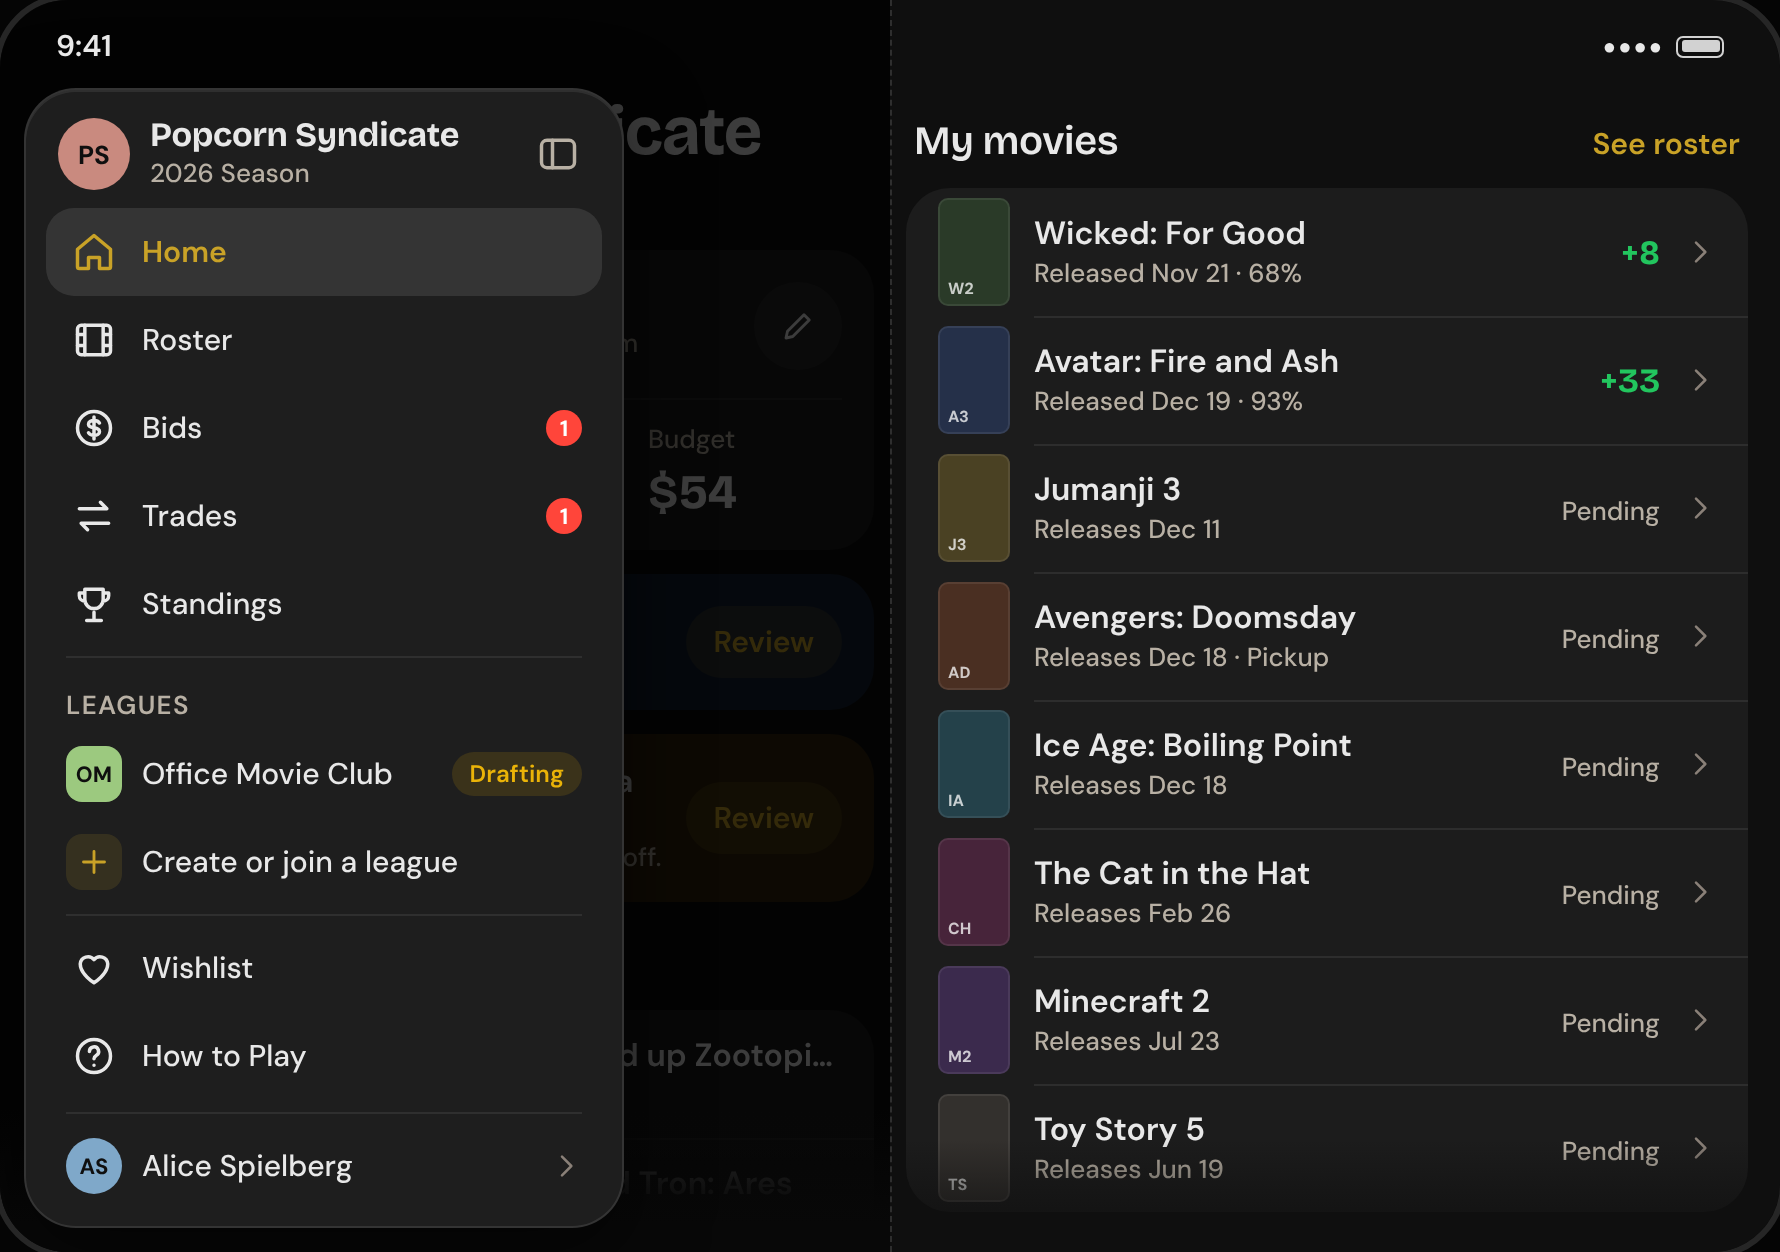
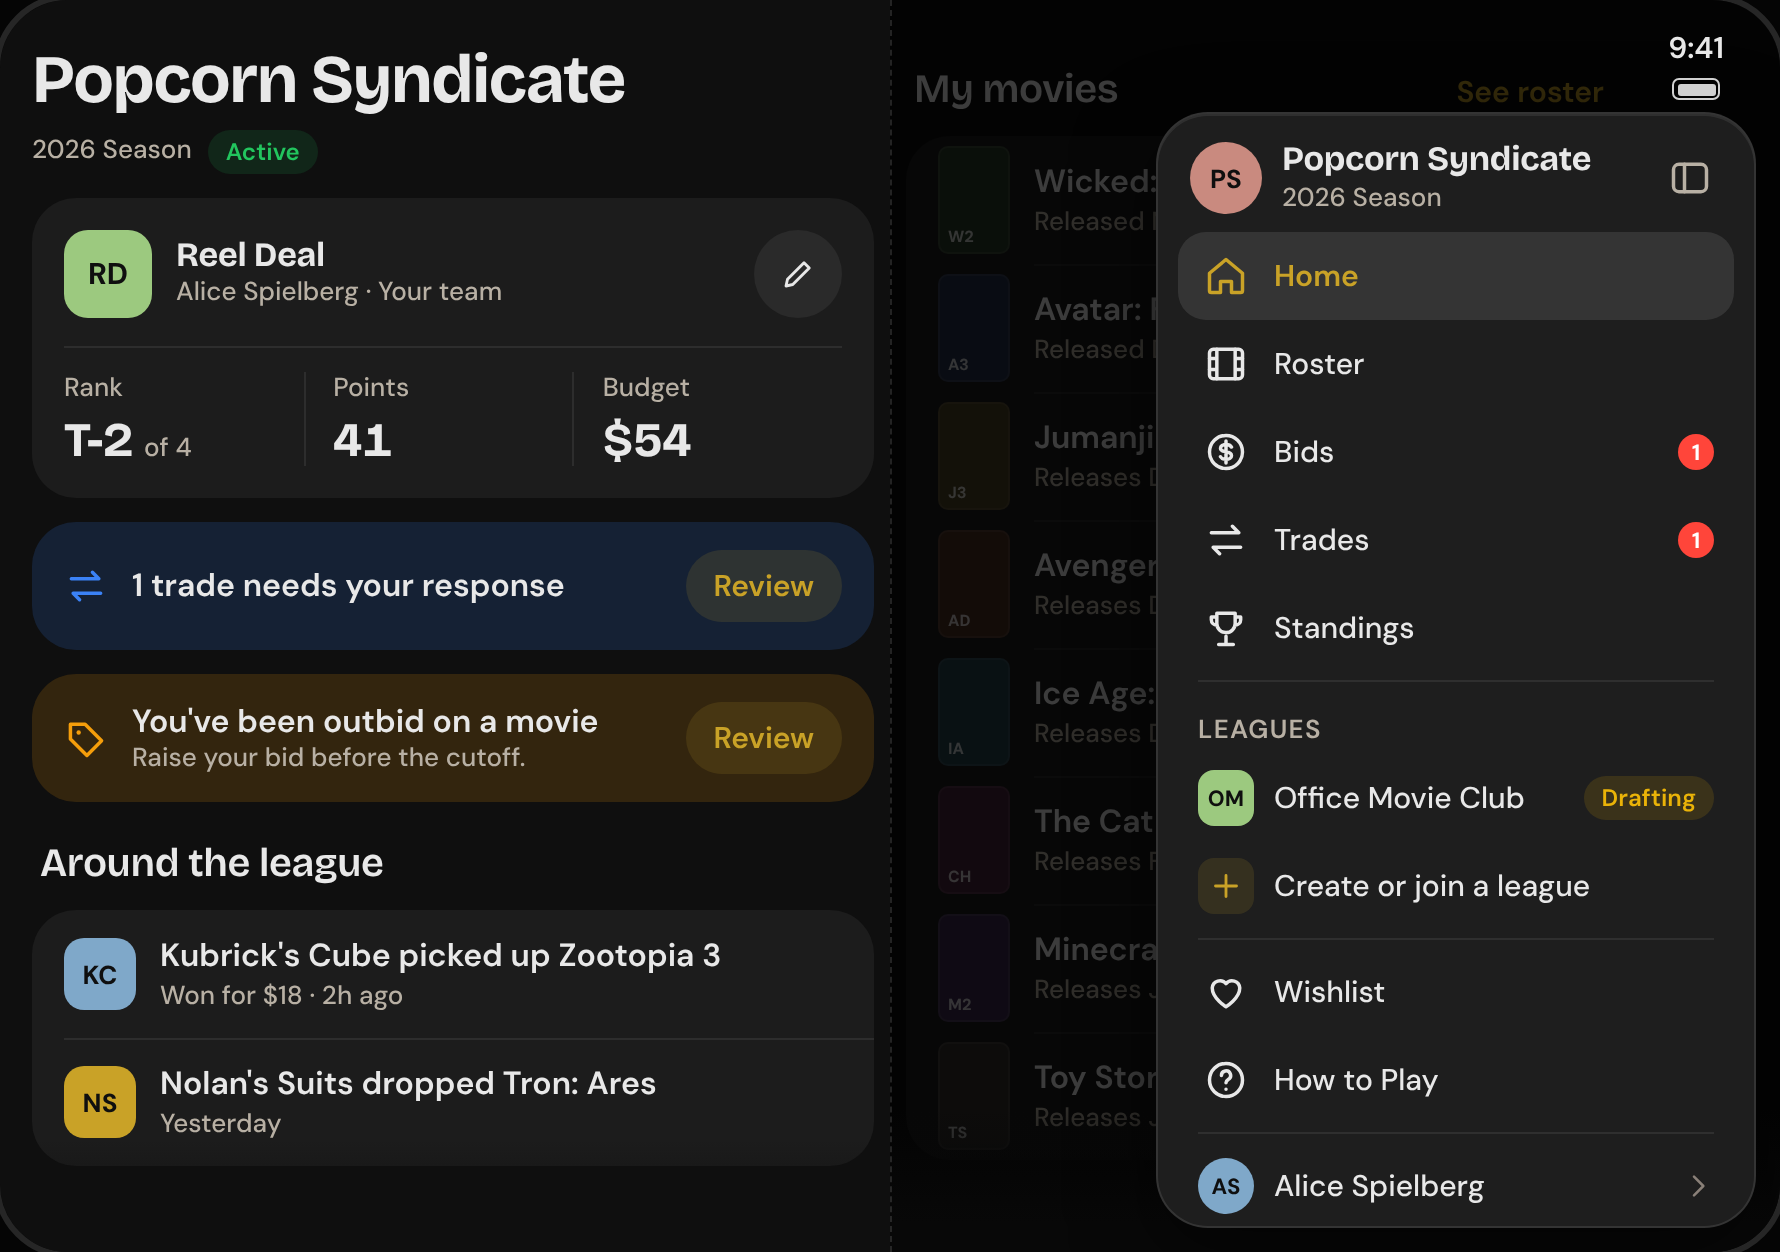
Move the Duo mockups' status area and navigation rail to the right edge
Apple describes the app as using the space to the left of the status bar
and camera, and the device shows the same when open. Redraw the open and
closed mockups with the rail on the right, add search to the closed rail,
and update the plan's wording to match.

Claude-Session: https://claude.ai/code/session_012k7YdinqiV5eQMmpNSoUhr

diff --git a/docs/ios-duo/mockups/kit.css b/docs/ios-duo/mockups/kit.css
@@ -19,6 +19,11 @@ body{background:#050505;font-family:"DM Sans",system-ui,sans-serif;color:var(--t
 .statusbar .batt{width:24px;height:11px;border:1.5px solid var(--text);border-radius:3.5px;position:relative;opacity:.9}
 .statusbar .batt::after{content:"";position:absolute;inset:1.5px;background:var(--text);border-radius:1.5px}
 .statusbar .sig{font-size:11px;letter-spacing:1px}
+/* On the Duo the status area sits at the top of the right edge, with the app's navigation below it
+   (Apple: an app uses "the screen space to the left of the status bar and camera"). The tabletop pose keeps a top status bar. */
+.device.open .statusbar,.device.closed .statusbar{left:auto;right:0;width:84px;height:52px;flex-direction:column;justify-content:center;gap:5px;padding:12px 0 0}
+.device.closed .statusbar{width:76px}
+.device.open .statusbar .sig,.device.closed .statusbar .sig{display:none}
 /* Type roles */
 .t-large{font:700 34px/1.08 "Bricolage";letter-spacing:-.02em}
 .t-page{font:700 28px/1.1 "Bricolage";letter-spacing:-.02em}
@@ -41,8 +46,8 @@ i[data-i]{display:inline-flex;width:22px;height:22px;flex:none} i[data-i] svg{wi
 .gbtn{width:44px;height:44px;border-radius:22px;display:flex;align-items:center;justify-content:center;color:var(--gold);position:relative;flex:none}
 .gpill{height:44px;border-radius:22px;display:inline-flex;align-items:center;gap:6px;padding:0 10px 0 5px;color:var(--text)}
 .dot{position:absolute;top:-3px;right:-3px;min-width:18px;height:18px;border-radius:9px;background:#ff453a;color:#fff;font:700 11px/18px "DM Sans";text-align:center;padding:0 4px}
-/* Side rail: the system places bars on the side in the book pose and on the outer display (approximation). */
-.rail{position:absolute;top:44px;bottom:0;left:0;width:84px;display:flex;flex-direction:column;align-items:center;gap:10px;padding:4px 0 16px;z-index:30}
+/* Side rail on the right edge, under the status area: the system places bars on the side in the book pose and on the outer display (approximation). */
+.rail{position:absolute;top:56px;bottom:0;right:0;width:84px;display:flex;flex-direction:column;align-items:center;gap:10px;padding:4px 0 16px;z-index:30}
 .rail .grow{flex:1}
 .vtabs{border-radius:30px;padding:5px;display:flex;flex-direction:column;gap:2px;width:68px}
 .vtab{height:52px;border-radius:26px;display:flex;flex-direction:column;align-items:center;justify-content:center;gap:1px;font:600 10px "DM Sans";color:var(--text);position:relative}
@@ -53,15 +58,15 @@ i[data-i]{display:inline-flex;width:22px;height:22px;flex:none} i[data-i] svg{wi
 .tab{width:84px;height:54px;border-radius:27px;display:flex;flex-direction:column;align-items:center;justify-content:center;gap:2px;font:600 11px "DM Sans";position:relative}
 .tab.on{background:rgba(255,255,255,.10);color:var(--gold)} .tab .dot{top:4px;right:20px}
 /* Sidebar (P4) */
-.sidebar{position:absolute;top:44px;bottom:12px;left:12px;width:232px;border-radius:26px;padding:12px 10px;display:flex;flex-direction:column;gap:2px;z-index:30}
+.sidebar{position:absolute;top:56px;bottom:12px;right:12px;width:232px;border-radius:26px;padding:12px 10px;display:flex;flex-direction:column;gap:2px;z-index:30}
 .sb-h{padding:10px 10px 4px} .sb-item{height:44px;border-radius:14px;display:flex;align-items:center;gap:10px;padding:0 10px;font:500 15px "DM Sans";position:relative}
 .sb-item.on{background:rgba(255,255,255,.10);color:var(--gold);font-weight:600} .sb-item .end{margin-left:auto}
 .sb-sep{height:1px;background:var(--sep);margin:6px 10px}
-/* Panes: absolutely placed columns. In .open with a rail: left pane 84..437, right pane 453..874 (the gutter sits on the fold). */
-.pane{position:absolute;top:44px;bottom:0;overflow:hidden;display:flex;flex-direction:column;gap:12px;padding-top:4px}
-.pane.l{left:84px;width:353px} .pane.r{left:453px;width:421px}
+/* Panes: absolutely placed columns. In .open with the rail on the right: left pane 16..437, right pane 453..806 (the gutter sits on the fold). */
+.pane{position:absolute;top:18px;bottom:0;overflow:hidden;display:flex;flex-direction:column;gap:12px;padding-top:4px}
+.pane.l{left:16px;width:421px} .pane.r{left:453px;width:353px}
 .pane.fade::after,.fadeb::after{content:"";position:absolute;left:0;right:0;bottom:0;height:56px;background:linear-gradient(transparent,var(--bg));pointer-events:none}
-.pane.sunken{background:#141414;border-radius:26px 26px 0 0;padding:14px 14px 0;top:48px} /* a detail pane that reads as a separate surface */
+.pane.sunken{background:#141414;border-radius:26px 26px 0 0;padding:14px 14px 0;top:18px} /* a detail pane that reads as a separate surface */
 .hd{display:flex;flex-direction:column;gap:2px} .hd .row{display:flex;align-items:center;gap:8px;margin-top:4px}
 .sec{display:flex;align-items:baseline;justify-content:space-between;padding:6px 4px 0}
 .sec a{font:600 15px "DM Sans";color:var(--gold)}

diff --git a/docs/ios-duo/mockups/home-closed.html b/docs/ios-duo/mockups/home-closed.html
@@ -1,13 +1,13 @@
 <!doctype html><html><head><meta charset="utf-8"><link rel="stylesheet" href="kit.css">
 <style>
 /* Outer display, phone shut: the system puts navigation on the side, so the rail sits on the right (thumb) edge. */
-.device.closed .rail{left:auto;right:0;width:76px}
+.device.closed .rail{width:76px}
 .device.closed .pane.c{left:16px;width:366px}
 </style></head><body>
 <div class="device closed">
   <div class="statusbar"><span>9:41</span><span class="sys"><span class="sig">●●●●</span><span class="batt"></span></span></div>
 
-  <!-- Right-edge rail: league switcher, five tabs, then notifications / league menu. Search lives in the menu here. -->
+  <!-- Right-edge rail: league switcher, five tabs, then search / notifications / league menu. -->
   <div class="rail">
     <div class="gbtn glass" style="width:52px"><span class="av round a3" style="width:34px;height:34px">PS</span></div>
     <div class="vtabs glass">
@@ -18,6 +18,7 @@
       <div class="vtab"><i data-i="standings"></i>Standings</div>
     </div>
     <div class="grow"></div>
+    <div class="gbtn glass"><i data-i="search"></i></div>
     <div class="gbtn glass"><i data-i="bell"></i><span class="dot">3</span></div>
     <div class="gbtn glass"><i data-i="more"></i></div>
   </div>

diff --git a/docs/ios-duo/mockups/home-open-sidebar.html b/docs/ios-duo/mockups/home-open-sidebar.html
@@ -1,7 +1,7 @@
 <!doctype html><html><head><meta charset="utf-8"><link rel="stylesheet" href="kit.css">
 <style>
 /* Sidebar expanded from the rail's league avatar. It replaces the menu sheet; the rail is hidden while it is open. */
-.scrim{position:absolute;top:0;bottom:0;left:0;width:445px;background:linear-gradient(transparent calc(100% - 72px),#080808 calc(100% - 14px)),rgba(0,0,0,.74);z-index:20}
+.scrim{position:absolute;top:0;bottom:0;left:445px;width:445px;background:linear-gradient(transparent calc(100% - 72px),#080808 calc(100% - 14px)),rgba(0,0,0,.74);z-index:20}
 .sidebar.glass{width:300px;background:rgb(30,30,30);backdrop-filter:none;padding:8px 10px;gap:0;box-shadow:inset 0 1px 0 rgba(255,255,255,.08),0 12px 40px rgba(0,0,0,.55)}
 .sidebar>*{flex:none}
 .sidebar .grow{flex:1}

diff --git a/docs/ios-duo/mockups/today-open.html b/docs/ios-duo/mockups/today-open.html
@@ -1,8 +1,8 @@
 <!doctype html><html><head><meta charset="utf-8"><link rel="stylesheet" href="kit.css">
 <style>
 /* "Before" picture: the phone layout, unchanged, laid across the whole open display.
-   One column from the rail (x=84) to the right margin (x=874); nothing knows about the fold. */
-.stretch{position:absolute;top:44px;bottom:0;left:84px;width:790px;overflow:hidden;display:flex;flex-direction:column;gap:12px;padding-top:4px}
+   One column from the left margin (x=16) to the rail (x=806); nothing knows about the fold. */
+.stretch{position:absolute;top:18px;bottom:0;left:16px;width:790px;overflow:hidden;display:flex;flex-direction:column;gap:12px;padding-top:4px}
 .stretch>*{flex:none}
 </style></head><body>
 <div class="device open">

diff --git a/docs/IOS-DUO-PLAN.md b/docs/IOS-DUO-PLAN.md
@@ -36,7 +36,7 @@ during Phase 0 before a design depends on them.
 | Size class | iOS's coarse label for available space: **compact** (phone-like) or **regular** (tablet-like), separately for width and height. Apps read it to pick a layout. |
 | Safe area | The part of the screen not covered by cameras, rounded corners or system bars. Content goes inside it; backgrounds may extend past it. |
 | Tab bar | The row of main sections at the bottom (Home, Roster, Bids…). `TabView` in code. |
-| Sidebar | A column of navigation on the leading edge, as on iPad. |
+| Sidebar | A column of navigation at the side of the screen, as on iPad. |
 | Navigation stack | One screen pushed on top of another with a Back button. |
 | Split view (in an app) | Two columns side by side: a list and the selected item's detail. `NavigationSplitView` in code. |
 | Split View (system) | Two different apps side by side. New on iPhone with the Duo. |
@@ -75,6 +75,11 @@ Other facts that matter to us:
 - On the outer display, system bars and app controls move to the **side** of the screen
   ("app navigation and controls now appear on the side") **[Apple]**. With the 27.1 SDK,
   standard toolbar buttons lay out vertically under the status bar **[Apple]**.
+- That side is the **right** edge. Apple describes the app as using "the screen space
+  to the left of the status bar and camera" **[Apple]**, so the clock, battery and the
+  navigation under them form a strip down the right, and content sits to its left. Arik
+  sees the same on his Duo when it is open (2026-11-11). Exact sizes are a Phase 0
+  measurement.
 - Tab bars adapt to every pose and can lay out vertically. On the inner display an app
   can opt into a sidebar with `.defaultTabBarPlacement(.sidebar)` **[Apple]**.
 - On the inner display, sheets are centered rather than full width **[Apple]**.
@@ -177,12 +182,17 @@ Use the width to remove a navigation step where the app is busiest:
 
 ### P4. Inner display: a sidebar for global items
 
-On the inner display the tabs sit in a slim rail at the side (see mockups). Tapping the
+On the inner display the tabs sit in a slim rail on the right edge, under the clock
+and battery (see mockups). Tapping the
 league button at the top of the rail expands it into a sidebar that holds what the menu
 sheet holds today: the tabs by name, other leagues, create or join, Wishlist, How to
 Play and Account. Arik asked for a side menu in the original mockups; we used a sheet
 because a drawer is not native on a phone. On the inner display a sidebar **is** the
 native pattern. The outer display keeps the league button and menu sheet.
+
+The mockup expands the rail in place, so the sidebar opens on the right. iPad sidebars
+sit on the left, and we have not seen where iOS puts one on the Duo, so the prototype
+starts by checking that. We follow whatever the system does.
 
 Risk: the rail, the expanded sidebar and the outer display's bar are different
 structures. Switching between them on open and close must not reset the screen you
@@ -205,10 +215,10 @@ Read them with three cautions:
 
 - **Sizes are estimates** (890 × 626 pt open, 466 × 678 pt closed), to be measured in
   Phase 0.
-- **Where iOS puts the bars is approximated.** Apple says navigation moves to the side
-  on the outer display and in this pose; the exact look of the system's side bar is
-  not something we could check without the simulator. The side rail here is our best
-  reading.
+- **Where iOS puts the bars is approximated.** The clock, battery and navigation are
+  drawn as a strip down the right edge, following Apple's description and what Arik
+  sees on his own Duo. The exact width and look of that strip is not something we
+  could check without the simulator, so the rail here is our best reading.
 - The dashed line is the fold. Layouts keep a gutter there so no button sits on it.
 
 ### First release
@@ -220,7 +230,8 @@ long gap between each title and its value. This is the problem Phase 1 fixes.
 ![League Home stretched across the open screen](ios-duo/mockups/today-open.png)
 
 **League Home, open (P2).** Left half: who you are and what needs you. Right half:
-your movies. Same cards and rows as today, arranged in two columns.
+your movies. Same cards and rows as today, arranged in two columns. The rail takes
+about 84 pt from the right half, so the right column is the narrower one.
 
 ![League Home on the open screen in two columns](ios-duo/mockups/home-open.png)
 
@@ -232,8 +243,8 @@ goes away because the list is already there.
 ![Draft room with the board and movie picker side by side](ios-duo/mockups/draft-open.png)
 
 **League Home, closed (P1).** The outer display keeps the single-column design. The
-tabs sit in a rail on the thumb side. The screen is short, so less fits above the
-bottom edge than on a regular iPhone.
+tabs sit in a rail on the right edge, under the clock and battery. The rail narrows
+the content column, so long banner titles wrap to two lines.
 
 ![League Home on the closed screen](ios-duo/mockups/home-closed.png)
 
@@ -250,8 +261,8 @@ about a movie on the right.
 ![Search results beside the selected movie](ios-duo/mockups/search-open.png)
 
 **Sidebar (P4, thread 2B).** The rail expanded: tabs by name, your other leagues,
-Wishlist, How to Play and your account. It covers the left half only, so the right
-half stays readable.
+Wishlist, How to Play and your account. It opens over the right half only, so the
+left half stays readable.
 
 ![League Home with the sidebar expanded](ios-duo/mockups/home-open-sidebar.png)
 
